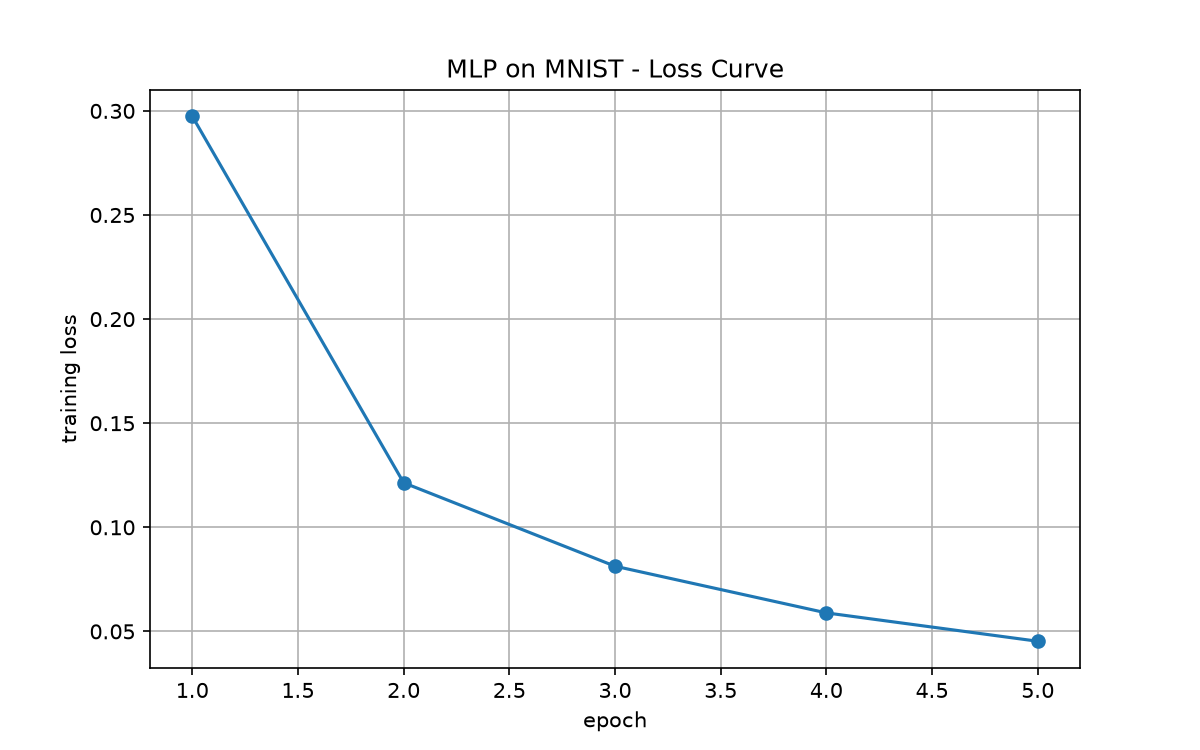
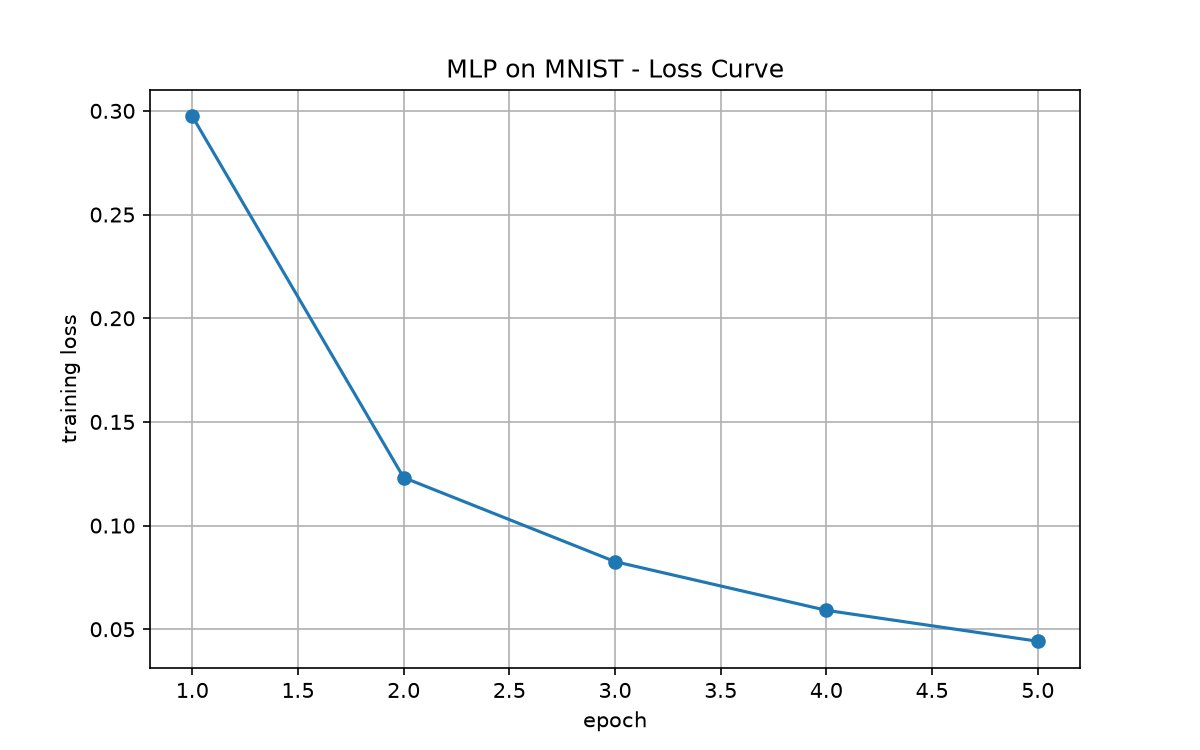
LEVEL1

diff --git a/level1/infer.py b/level1/infer.py
@@ -1,54 +1,63 @@
 """Level 1: 单张图片推理脚本
 用法:
-    python infer.py                    # 默认对测试集第 0 张图推理
-    python infer.py path/to/img.png    # 对自己指定的图片推理（如手拍/手绘的数字）
+    python infer.py                      # 对测试集第 0 张图推理
+    python infer.py samples/digit7.png   # 对指定图片推理
 """
 import sys
+from pathlib import Path
+
 import torch
 from torchvision import datasets, transforms
 from PIL import Image, ImageOps
 
+LEVEL1 = Path(__file__).resolve().parent     # 与 train.py 同款锚定
+ROOT = LEVEL1.parent
+DATA_DIR = ROOT / "data"
+CKPT = LEVEL1 / "mlp_mnist.pt"
+
+sys.path.insert(0, str(LEVEL1))              # 保证能找到 model.py
 from model import MLP
 
 DEVICE = torch.device("mps" if torch.backends.mps.is_available() else "cpu")
 
 
 def predict(tensor):
-    """输入 [1,1,28,28] 的 Tensor，返回 (预测数字, 10个得分)"""
-    model = MLP()                                        # ① 先造同结构的空模型
-    model.load_state_dict(torch.load("mlp_mnist.pt"))    # ② 灌入训练好的权重
-    model = model.to(DEVICE)
-    model.eval()                                         # ③ 推理模式
-    with torch.no_grad():
-        scores = model(tensor.to(DEVICE))                # ④ 前向
-    return scores.argmax(1).item(), scores[0]
+    """输入 [1,1,28,28]，返回 (预测数字, 10 类概率, 10 类得分)"""
+    model = MLP()                                             # ① 同结构空模型
+    model.load_state_dict(torch.load(CKPT, map_location="cpu"))  # ② 灌入权重
+    model = model.to(DEVICE)                                  # ③ 上设备
+    model.eval()                                              # ④ 推理模式
+    with torch.no_grad():                                     # ⑤ 不算梯度
+        scores = model(tensor.to(DEVICE))                     # ⑥ 前向 → [1,10] logits
+    probs = torch.softmax(scores, dim=1)                      # ⑦ logits → 概率
+    return scores.argmax(1).item(), probs[0], scores[0]        # ⑧ 预测类别 + 概率 + 原始得分
 
 
 def load_from_testset(idx=0):
-    """从 MNIST 测试集取第 idx 张（自动带归一化格式）"""
-    testset = datasets.MNIST(root="./data", train=False, download=True,
+    """从 MNIST 测试集取第 idx 张（带标准答案）"""
+    testset = datasets.MNIST(root=str(DATA_DIR), train=False, download=True,
                              transform=transforms.ToTensor())
     img, label = testset[idx]
-    return img.unsqueeze(0), label                       # 补 batch 维 -> [1,1,28,28]
+    return img.unsqueeze(0), label                            # [1,28,28] → [1,1,28,28]
 
 
 def load_from_file(path):
-    """读取任意外部图片，转成和 MNIST 一样的格式"""
-    img = Image.open(path).convert("L")          # 转灰度
-    img = ImageOps.invert(img)                   # MNIST 是黑字白底，普通照片是白字黑底，反过来
-    img = img.resize((28, 28))                   # 缩放到 28x28
-    tensor = transforms.ToTensor()(img)          # -> [1,28,28]，0~1
-    return tensor.unsqueeze(0)
+    """读取外部图片，补平与 MNIST 的三处差异"""
+    img = Image.open(path).convert("L")           # ① 彩色/多通道 → 单通道灰度
+    img = ImageOps.invert(img)                    # ② 白底黑笔 → 黑底白笔（对齐 MNIST）
+    img = img.resize((28, 28), Image.LANCZOS)     # ③ 缩放 + 保边插值
+    return transforms.ToTensor()(img).unsqueeze(0)
 
 
 if __name__ == "__main__":
-    if len(sys.argv) > 1:                        # 命令行给了图片路径
-        x = load_from_file(sys.argv[1])
-        label = "(未知)"
-    else:                                        # 默认用测试集第 0 张
+    if len(sys.argv) > 1:
+        x, label = load_from_file(sys.argv[1]), "未知"
+    else:
         x, label = load_from_testset(0)
 
-    pred, scores = predict(x)
+    pred, probs, logits = predict(x)
     print(f"真实标签: {label}")
     print(f"模型预测: {pred}")
-    print(f"10 类得分: {[round(s, 2) for s in scores.tolist()]}")
+    print(f"10 类得分: {[round(v, 2) for v in logits.tolist()]}")
+    print(f"各类概率: {[f'{p:.2%}' for p in probs.tolist()]}")
+    print(f"最高置信度: {probs[pred].item():.2%}")

diff --git a/level1/train.py b/level1/train.py
@@ -2,13 +2,19 @@
 每次运行都从零开始训练，输出准确率、Loss 曲线和权重文件。
 用法: python train.py
 """
+from pathlib import Path
 import torch
 import torch.nn as nn
 from torch.utils.data import DataLoader, random_split
 from torchvision import datasets, transforms
 import matplotlib.pyplot as plt
-
 from model import MLP
+
+LEVEL1 = Path(__file__).resolve().parent        # 脚本所在目录 = level1/
+ROOT = LEVEL1.parent                            # 项目根 = dian/
+DATA_DIR = ROOT / "data"
+CKPT = LEVEL1 / "mlp_mnist.pt"
+CURVE = LEVEL1 / "loss_curve.png"
 
 # ---------- 超参数 ----------
 BATCH_SIZE = 64
@@ -17,11 +23,10 @@ EPOCHS = 5
 DEVICE = torch.device("mps" if torch.backends.mps.is_available() else "cpu")
 
 # ---------- 数据 ----------
-transform = transforms.ToTensor()
-trainset = datasets.MNIST(root="./data", train=True, download=True, transform=transform)
-testset = datasets.MNIST(root="./data", train=False, download=True, transform=transform)
-train_subset, val_subset = random_split(trainset, [55000, 5000])  # 防泄露：调参只看验证集
-train_loader = DataLoader(train_subset, batch_size=BATCH_SIZE, shuffle=True)
+trainset = datasets.MNIST(root=str(DATA_DIR), train=True, download=True, transform=transforms.ToTensor())
+testset = datasets.MNIST(root=str(DATA_DIR), train=False, download=True, transform=transforms.ToTensor())
+# train_subset, val_subset = random_split(trainset, [55000, 5000])  # 防泄露：调参只看验证集
+train_loader = DataLoader(trainset, batch_size=BATCH_SIZE, shuffle=True)
 test_loader = DataLoader(testset, batch_size=256, shuffle=False)
 
 # ---------- 模型 / 损失 / 优化器（三者绑定同一模型，同建同用）----------
@@ -42,7 +47,7 @@ for epoch in range(EPOCHS):
         loss.backward()                # ④ 反向传播
         optimizer.step()               # ⑤ 更新权重
         total_loss += loss.item() * len(y)
-    avg = total_loss / len(train_subset)
+    avg = total_loss / len(trainset)
     train_losses.append(avg)
     print(f"epoch {epoch+1}/{EPOCHS}  平均loss: {avg:.4f}")
 
@@ -55,11 +60,11 @@ with torch.no_grad():
         scores = model(X)
         correct += (scores.argmax(1) == y).sum().item()
 acc = correct / len(testset)
-print(f"测试集准确率: {acc:.4f}  (验收线 0.90)")
+print(f"测试集准确率: {acc*100:.1f}%")
 
 # ---------- 保存权重 + Loss 曲线 ----------
-torch.save(model.state_dict(), "mlp_mnist.pt")
-print("权重已保存: mlp_mnist.pt")
+torch.save(model.state_dict(), CKPT)
+print(f"权重已保存: {CKPT}")
 
 plt.figure(figsize=(8, 5))
 plt.plot(range(1, EPOCHS + 1), train_losses, marker="o")
@@ -67,5 +72,5 @@ plt.xlabel("epoch")
 plt.ylabel("training loss")
 plt.title("MLP on MNIST - Loss Curve")
 plt.grid(True)
-plt.savefig("loss_curve.png", dpi=150)
-print("曲线已保存: loss_curve.png")
+plt.savefig(CURVE, dpi=150)
+print(f"曲线已保存: {CURVE}")

diff --git a/level1/model.py b/level1/model.py
@@ -1,23 +1,20 @@
-"""MLP 模型定义 —— 全项目共用的模型类（Level 1~4 都从这里导入）"""
+"""MLP 模型定义 —— 全项目共用的模型类(Level 1~4 都从这里导入）"""
 import torch
 import torch.nn as nn
 
 
 class MLP(nn.Module):
-    """784 -> 256 -> 10 的多层感知机（MNIST 手写数字识别）"""
-
-    def __init__(self, hidden_size=256, num_classes=10):
+    def __init__(self):
         super().__init__()
-        self.flatten = nn.Flatten()                      # [N,1,28,28] -> [N,784]
-        self.linear_relu_stack = nn.Sequential(
-            nn.Linear(28 * 28, hidden_size),             # 784 -> 256
-            nn.ReLU(),                                   # 非线性
-            nn.Linear(hidden_size, num_classes),         # 256 -> 10（输出原始得分）
+        self.flatten=nn.Flatten()  # 将输入展平为一维向量
+        self.linear_relu_stack=nn.Sequential(
+            nn.Linear(28*28,256),  # 输入层到隐藏层1
+            nn.ReLU(),      
+            nn.Linear(256,10)
         )
-
-    def forward(self, x):
-        x = self.flatten(x)
-        x = self.linear_relu_stack(x)
+    def forward(self,x):
+        x=self.flatten(x)
+        x=self.linear_relu_stack(x)
         return x
 
 

diff --git a/README.md b/README.md
@@ -1,3 +1,198 @@
-#level1
-#一，首先是机器学习，不需要人工编写大量程序代码，而是通过一定的训练流程，让让计算机从数据中学习规律，并利用这些规律对新数据进行预测或判断。
-#神经网络，是实现机器学习的一种方法，一种包含矩阵和激活函数的工厂流水线的结构，一般包含输入层，隐藏层和输出层和向前传输
+# dian —— 2026 团队秋招算法题
+
+按 Level 递进完成从 MLP 到 U-Net 的完整链路，每个 Level 独立成目录，共享一份数据集。
+
+| Level | 内容 | 状态 |
+|---|---|---|
+| L0 | conda 环境管理与 GPU 加速验证 | ✅ 完成 |
+| L1 | MLP 手写数字识别（MNIST） | ✅ 完成 |
+| L2 | CNN 对比实验 | ⏳ 进行中 |
+| L3 | 经典 CNN 结构（AlexNet / VGG / ResNet / U-Net） | ⏳ 未开始 |
+| L4 | U-Net 手写笔记擦除 | ⏳ 未开始 |
+
+## 环境
+
+- 硬件：MacBook Air（Apple Silicon / arm64）
+- 环境：conda 环境 `dian`，Python 3.11.9
+- 关键依赖：PyTorch 2.14.0、torchvision、matplotlib、Pillow
+- 加速后端：**MPS**。Mac 无 NVIDIA 显卡，因此不能使用 CUDA，代码统一走 `torch.backends.mps.is_available()` 判断
+
+复现环境：
+
+```bash
+conda create -n dian python=3.11.9
+conda activate dian
+pip install torch torchvision matplotlib pillow
+```
+
+## 目录结构
+
+```
+dian/
+├── data/                    # 共享数据集（MNIST，被 .gitignore 排除）
+├── level1/
+│   ├── model.py             # MLP 模型定义（含自测入口）
+│   ├── train.py             # 训练脚本：从零训练并保存权重与曲线
+│   ├── infer.py             # 推理脚本：对测试集或外部图片做单张预测
+│   ├── level1mlp.ipynb      # 逐段搭建过程的实验记录
+│   ├── samples/             # 用于验证 infer.py 的外部图片
+│   ├── mlp_mnist.pt         # 训练产物：权重（被 .gitignore 排除）
+│   ├── loss_curve.png       # 训练产物：Loss 曲线
+│   └── 学习笔记_Level1.md    # 概念梳理与踩坑记录
+└── step1_preview_data.py    # 数据下载与预览
+```
+
+**关于路径**：所有脚本用 `Path(__file__).resolve()` 锚定绝对路径，因此**可以在任意目录下运行**，产物固定落在 `level1/`，数据集固定指向 `data/`，不会因为当前目录不同而重复下载。
+
+## Level 1：MLP 手写数字识别
+
+### 模型结构
+
+```
+输入 [N, 1, 28, 28]
+  → Flatten        展平成 [N, 784]
+  → Linear(784, 256) + ReLU
+  → Linear(256, 10)              输出 10 类 logits
+```
+
+- 参数量：**203,530**
+- 隐藏层只有 1 层（256 个神经元），结构刻意保持最小，便于观察训练行为
+
+### 训练配置
+
+| 项 | 值 |
+|---|---|
+| 数据集 | MNIST，训练 60000 / 测试 10000 |
+| batch size | 64 |
+| 优化器 | Adam，学习率 1e-3 |
+| 损失函数 | CrossEntropyLoss |
+| epoch | 5（每 epoch 约 938 次参数更新，共约 4690 次） |
+
+### 结果
+
+| 指标 | 数值 |
+|---|---|
+| 训练 loss | 约 0.30（epoch 1）→ 约 0.05（epoch 5） |
+| 测试集准确率 | **97.68%**（9768 / 10000） |
+
+**Loss 曲线**（由 `train.py` 自动生成并保存）：
+
+![Loss 曲线](level1/loss_curve.png)
+
+曲线呈典型的"先陡后缓"形态：epoch 1→2 下降最快（0.30 → 0.12），此后收益递减，epoch 5 时已趋平缓——说明继续加大 epoch 的边际收益很小，5 个 epoch 对这个任务已经够用。
+
+准确率由**加载落盘权重**后重新评估得到，验证了权重文件本身可用、结果可复现。
+
+### 数据划分与防数据泄露
+
+数据使用严格按"训练/测试"两摞分离：
+
+| 用途 | 数据来源 | 数量 | 参与训练？ |
+|---|---|---|---|
+| 训练 | MNIST train 集 | 60000 | ✅ 是 |
+| 测试 | MNIST test 集 | 10000 | ❌ 否，仅在训练全部结束后评估一次 |
+
+关键点：**测试集在训练过程中从未被访问**，没有参与任何一次参数更新，也没有用于挑选超参数。测试集的唯一作用是训练结束后给出一次性的最终成绩，因此 97.68% 这个数字反映的是模型在**未见数据**上的真实能力，不存在数据泄露。
+
+（`train.py` 中保留了 `random_split` 切分验证集的代码，供后续需要调参时启用：调参只看验证集，最后才碰测试集。）
+
+### Level 1 验收标准对照
+
+| 验收标准（题目原文） | 本仓库对应实现 |
+|---|---|
+| 不数据泄露，测试集准确率达到 90% | 97.68%（测试集全程不参与训练，见上表） |
+| 能训练模型 | `level1/train.py`，`python level1/train.py` 从零训练 |
+| 能推理模型 | `level1/infer.py`，支持测试集图片与外部图片 |
+| 可视化、保存 Loss 曲线 | `level1/loss_curve.png`，由 `train.py` 用 matplotlib 生成并保存 |
+| README 记录网络结构、超参数和实验结果 | 见上文"模型结构""训练配置""结果"三节 |
+
+### 运行方式
+
+```bash
+conda activate dian
+cd dian
+
+# 训练：从零训练，产出 level1/mlp_mnist.pt 与 level1/loss_curve.png
+python level1/train.py
+
+# 推理：默认取测试集第 0 张
+python level1/infer.py
+
+# 推理：对指定图片
+python level1/infer.py level1/samples/digit7.png
+```
+
+推理脚本输出示例（同时对测试集与外部图片验证）。用于验证的外部图片（白底黑笔迹，经 `infer.py` 的反色、缩放等预处理后送入模型）：
+
+<p align="center">
+  <img src="level1/samples/digit7.png" width="180" alt="手写 7 测试图" />
+  <img src="level1/samples/digit3.png" width="180" alt="手写 3 测试图" />
+</p>
+
+```
+# 测试集第 0 张
+真实标签: 7
+模型预测: 7
+10 类得分: [-4.16, -7.73, -2.17, 0.24, -15.67, -5.57, -18.61, 9.97, -2.54, -2.19]
+各类概率: ['0.00%', '0.00%', '0.00%', '0.01%', '0.00%', '0.00%', '0.00%', '99.99%', '0.00%', '0.00%']
+最高置信度: 99.99%
+
+# samples/digit7.png（外部图片，没有标注）
+真实标签: 未知
+模型预测: 7
+最高置信度: 98.20%
+```
+
+`10 类得分`是 softmax 之前的原始 logits（范围无界、可为负），`各类概率`是 softmax 之后的归一化结果。两者对照可以看出 softmax 的**指数放大效应**：logits 只领先 8 分左右，概率上就变成 99.99% —— 所以"高置信度"不等于"高把握"。
+
+---
+
+## Level 1 理解题
+
+### 1. MLP 的输入是什么样子的？图片是怎么被输入进去的？
+
+MLP 从未接触过"图片"，它只接收**一个 784 维向量**。一张 28×28 灰度图进入网络前经过三步处理：
+
+1. 读入并转单通道灰度，得到 28×28 的像素强度矩阵（0 = 纯黑，255 = 纯白）
+2. `ToTensor()` 把值域从 0~255 压到 0~1，并补上通道维，形状为 `[1, 28, 28]`
+3. `nn.Flatten()` 把二维矩阵按行展开成一维，28×28 = **784 个数**
+
+所以第一层实际接收的形状是 `[64, 784]`（一批 64 张），`Linear(784, 256)` 做的是一次矩阵乘法：`[64,784] @ [784,256] = [64,256]`。
+
+**关键点**：Flatten 之后，像素之间的**空间邻接关系被彻底丢弃**。对 MLP 来说，把一张图的所有像素打乱顺序再输入，难度完全一样 —— 它无法利用"相邻像素相关"这一图像的基本先验。这正是 MLP 处理图像的先天缺陷，也是 Level 2 转向 CNN 的根本动机。
+
+### 2. 未经训练的 MLP 输出完全错误，训练是如何让它越来越正确的？
+
+训练回路是：**前向 → 损失 → 反向传播 → 更新参数**，循环约 4690 次。
+
+1. **初始化时它是垃圾**：`MLP()` 的权重是随机数，输出无意义，准确率约 10%（10 类随机猜的水平）。
+2. **损失函数量化"错得有多离谱"**：`CrossEntropyLoss` 比较模型打分与真实标签，输出一个标量。起点约 2.3，接近 10 类均匀分布时的理论值 `-ln(1/10)`。
+3. **反向传播算出"该往哪调"**：利用链式法则求损失对**每个参数的偏导数**（梯度）。梯度的含义很具体 —— "这个参数往正方向挪一点，损失会变大多少"。既然知道哪个方向让错误变大，就往反方向走。
+4. **优化器执行一步**：`optimizer.step()` 让全部 20 万个参数各挪一小步，步长由学习率控制，随后 `zero_grad()` 清空梯度、进入下一批。
+
+**核心认知：模型不知道"正确答案是什么"，它只知道"往哪个方向走能少错一点"。** 20 万维参数空间中，损失构成一张超曲面，训练就是在曲面上沿负梯度方向逐步下行。
+
+之所以能学会，是因为"哪些像素组合对应哪个数字"这条规律由 6 万张图共同约束 —— 单张样本带噪声，但 6 万张的合力指向真实的统计规律。因此最终实现的不是"背下训练集"，而是在从未见过的 1 万张测试图上也有 97.68% 的准确率。
+
+### 3. 如何理解"基于数据的逆向映射"？它与"对输入做变换"有什么区别？
+
+**对输入做变换**（正向）：规则由人写死，输入决定输出且结果唯一确定。反色、缩放、旋转都属于此类，特点是规则先于数据存在，且通常可逆。
+
+**基于数据的逆向映射**（学习）：没有规则，只有一批 `(输入, 输出)` 样例对，目标是反推出一个函数 `f` 使 `f(x) ≈ y`。三点本质区别：
+
+1. **规则来源不同** —— 变换是"先有规则，再算结果"；学习是"先有例子，再猜规则"。"如何识别数字 7"这条规则无法用 if-else 手写出来，所以才必须让模型从数据中拟合。
+2. **解不唯一、也不精确** —— 同一批数据可以拟合出无数个 `f`。换一组随机初始化、换一种网络结构、换个学习率，最终 20 万个参数完全不同，但测试准确率可能都是 97% 左右。训练出的模型不是唯一正解，而是众多可行解之一（这也是同一份代码换台机器跑，数字会有细微差异的原因）。
+3. **只在训练分布内有效** —— 变换对任何输入都成立，而学出来的映射只对"与训练数据同分布"的输入有效。把 MNIST 图像上下颠倒、或用手机拍的正常照片，准确率都会明显下降，因为那已偏离训练分布。
+
+一句话概括：**正向变换是"算"（规则明确、结果确定），逆向映射是"猜 + 用误差修正猜"（规则未知，靠数据约束方向，只能逼近）。**
+
+这也解释了为什么必须保留测试集：既然学出来的映射只保证在见过的数据上有效，就需要一批**训练时从未接触过**的数据来衡量真实能力。
+
+---
+
+## 已知局限与后续改进
+
+1. **未切分验证集**：当前 `train.py` 使用全部 60000 张训练图（`random_split` 的切分代码已写好但被注释）。本 Level 未做超参数搜索，因此测试集仍然只被使用一次、不存在泄露；但若后续要调参，应恢复验证集切分，坚持"调参只看验证集"。
+2. **外部手写图准确率下降**：`samples/` 中的合成图能正确识别，但真实拍摄的手写数字容易出错，原因有三层 —— ① MNIST 的数字都是居中被裁切的，而照片不会自动居中对齐；② 拍摄图存在阴影、噪点、纸张纹理；③ 笔迹风格与 MNIST 的书写者不同，属于分布外输入。
+3. **空间信息被展平丢弃**：这是 MLP 的结构性限制，Level 2 引入卷积后解决。
+4. **权重文件未纳入版本库**：`*.pt` 与 `data/` 已在 `.gitignore` 中排除。权重可由 `train.py` 复现，无需提交二进制文件。
